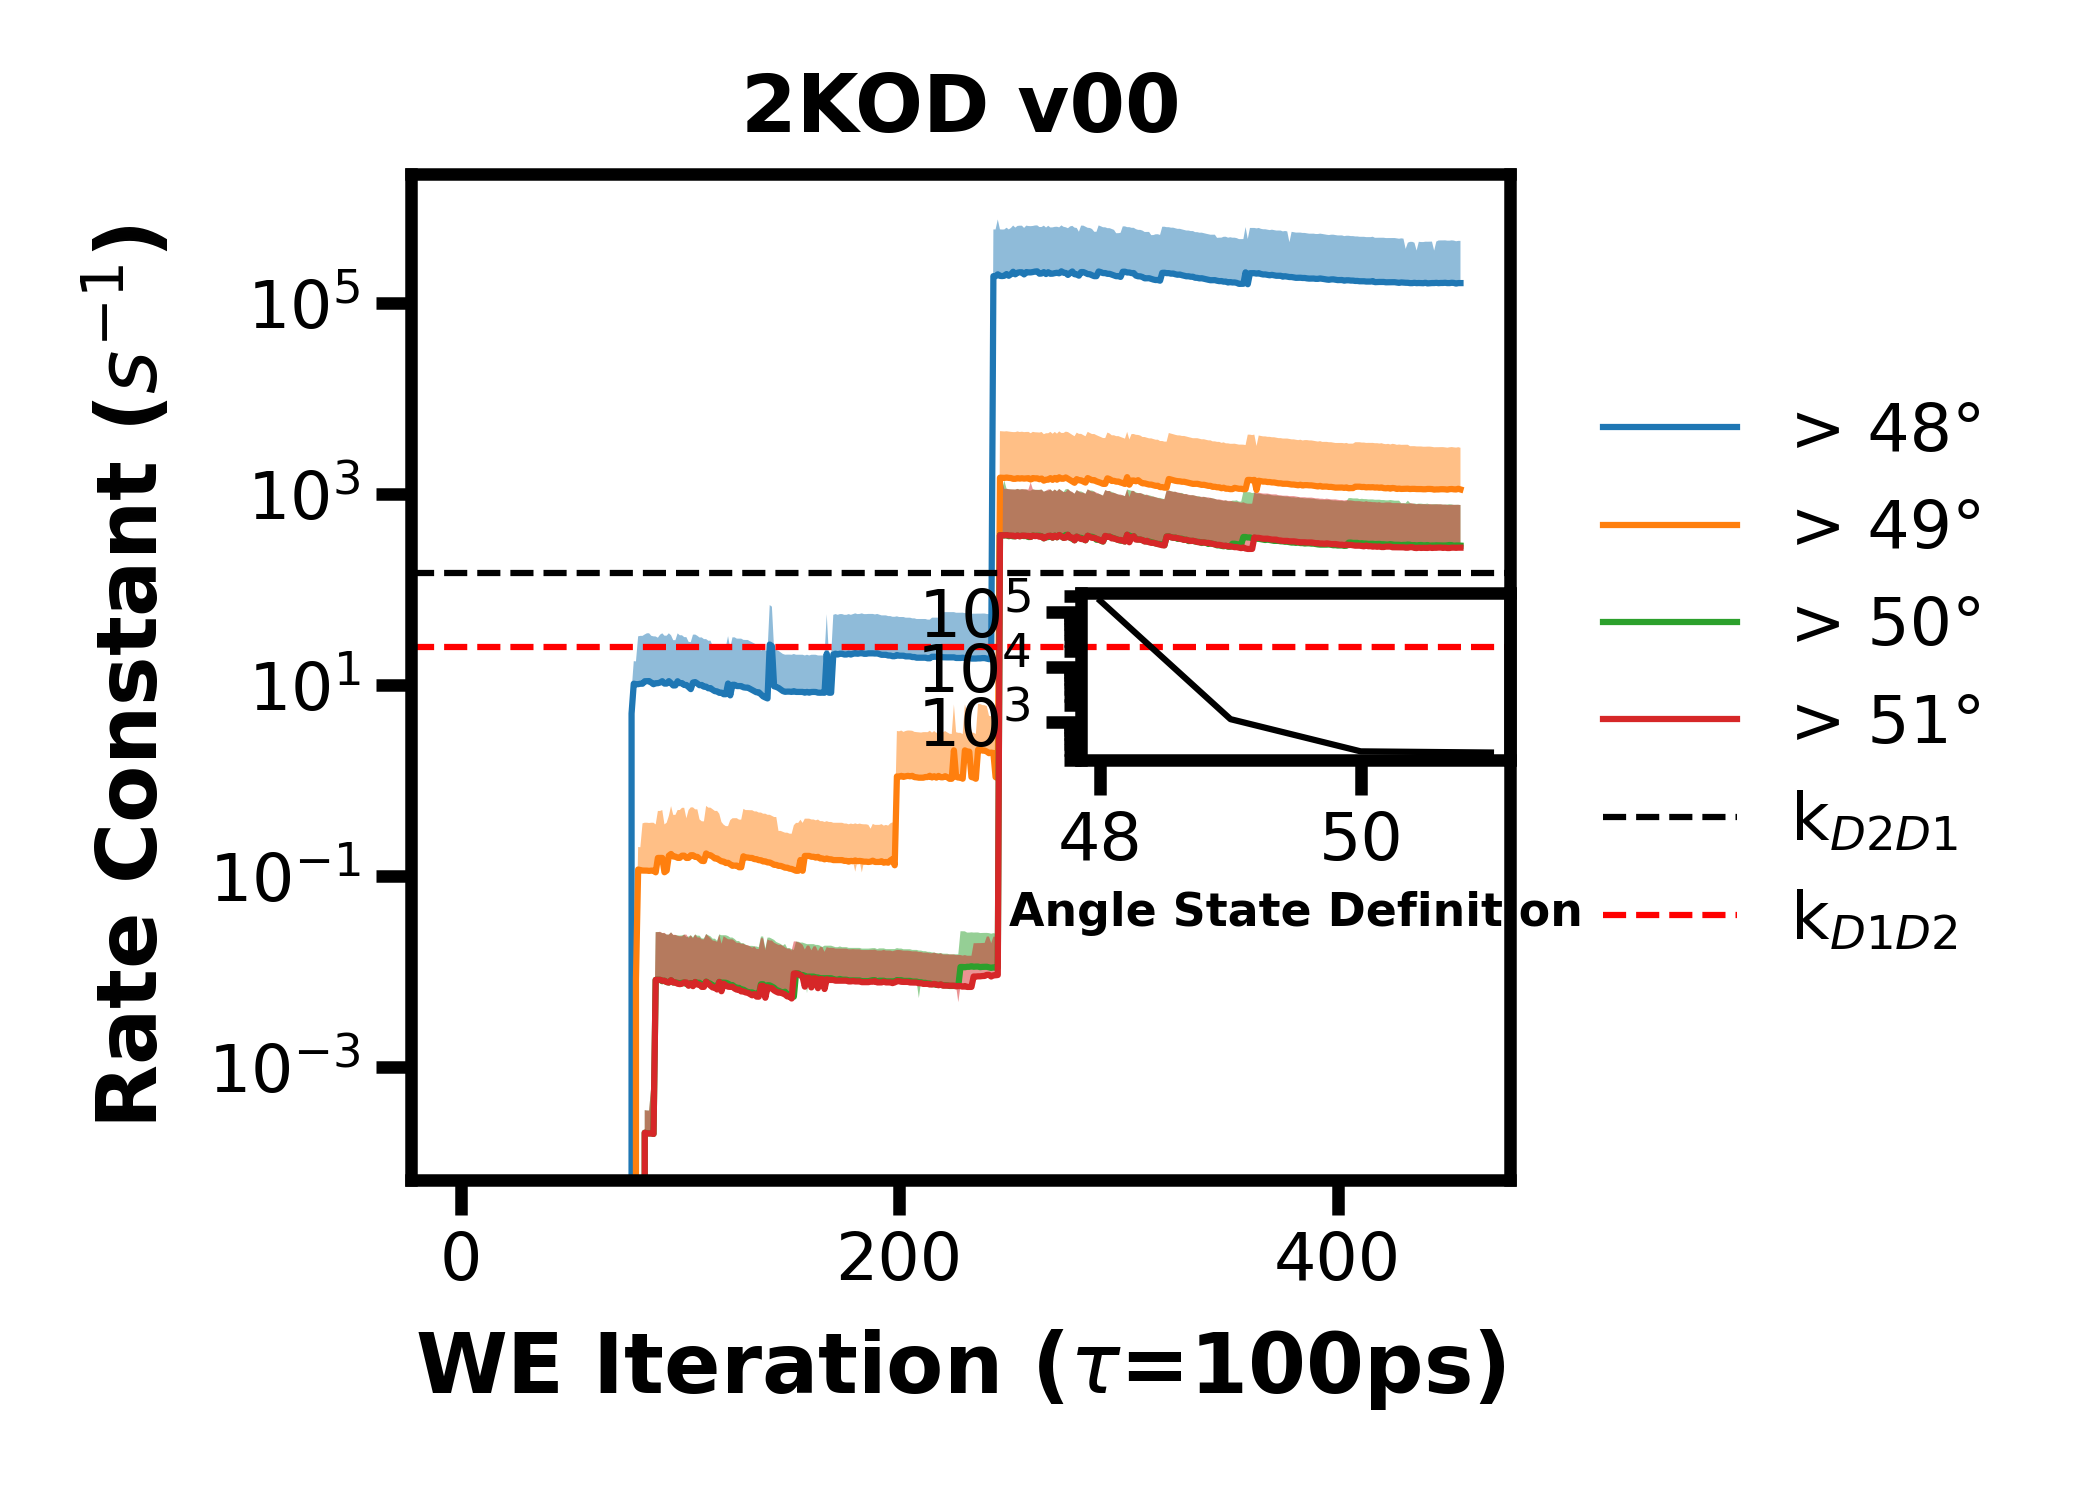
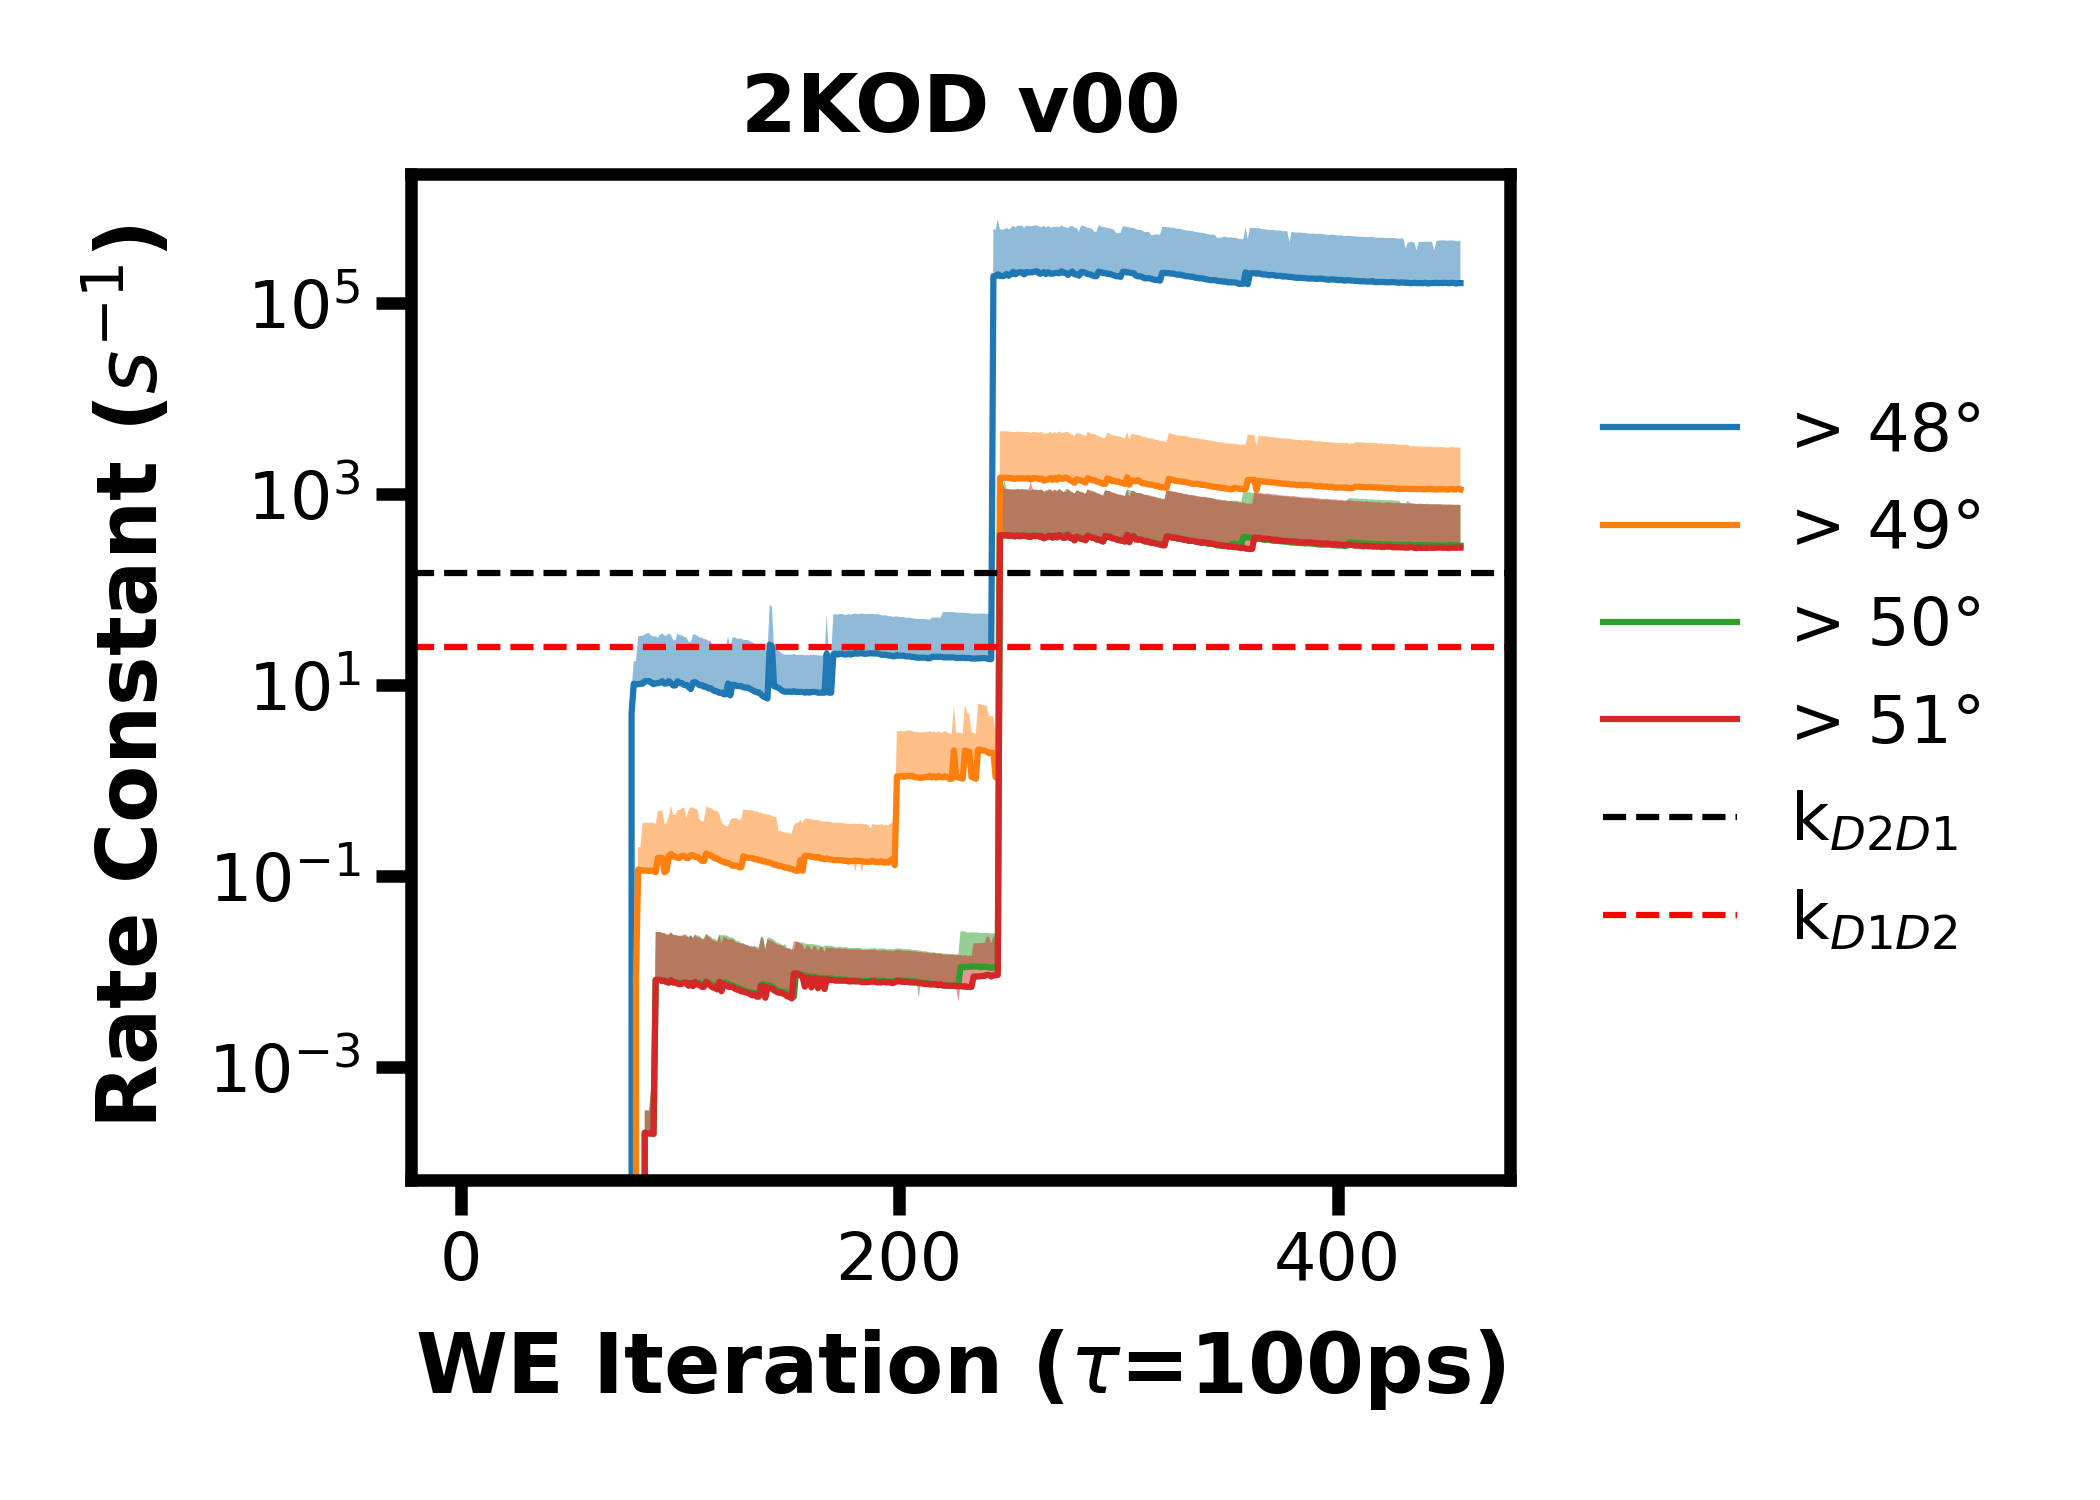
fixed the rate plotter to be more robust with input naming schemes

Changed region(s): [[0.4333, 0.368, 0.7429, 0.644]]

diff --git a/plot_direct_h5.py b/plot_direct_h5.py
@@ -49,8 +49,8 @@ plt.style.use("/Users/darian/github/wedap/wedap/styles/default.mplstyle")
 
 class Kinetics:
 
-    def __init__(self, min_state=None, max_state=None, scheme=None, 
-                 tau=10**-10, state=1, label=None, units="rates", ax=None):
+    def __init__(self, min_state=None, max_state=None, scheme=None, prefix=None,
+                 tau=10**-10, state=1, label=None, units="rates", ax=None, savefig=False):
         """ TODO
         Parameters
         ----------
@@ -66,8 +66,11 @@ class Kinetics:
         units : str
             Can be `rates` (default) or `mfpts`.
         ax : mpl axes object
+        savefig : bool
+            Wether or not to save the figure to a png.
         """
         self.scheme = scheme
+        self.prefix = prefix
         self.tau = tau
         self.state = state
         self.label = label
@@ -88,6 +91,8 @@ class Kinetics:
         else:
             self.ax = ax
             self.fig = plt.gcf()
+
+        self.savefig = savefig
 
     def extract_rate(self):
         """
@@ -195,13 +200,13 @@ class Kinetics:
         else:
             raise ValueError(f"You put {self.units} for unit, which must be `mfpts` or `rates`.") 
 
-    def plot_multi_def_rates(self, ver="v00", prefix=""):
+    # TODO: make this update scheme more automatically
+    def plot_multi_def_rates(self, ver="v00", def_subplot=True):
         ### get rates for multiple state definitions (WE c2x 4b)
         final_rates = []
+        ogscheme = self.scheme
         for angle in self.states:
-            #self.scheme = f"1a43_c2/4b_{angle}_{ver}"
-            #self.scheme = f"2kod_c2_80/4b_{angle}_{ver}"
-            self.scheme = f"2kod_oa/{prefix}{angle}_{ver}"
+            self.scheme = f"{ogscheme}/{self.prefix}{angle}_{ver}"
             self.label = f"> {angle}°"
             rates = self.plot_rate(title=f"2KOD {ver}")
             # add 2 item list: angle | final rate value
@@ -215,18 +220,20 @@ class Kinetics:
 
         # TODO: separate into different methods
         # plot the rates at various state definitions
-        ax2 = self.fig.add_subplot(324)
-        ax2.plot(self.states, final_rates, color="k")
-        ax2.set_xlabel("Angle State Definition", fontsize=11, labelpad=4)
+        if def_subplot:
+            ax2 = self.fig.add_subplot(324)
+            ax2.plot(self.states, final_rates, color="k")
+            ax2.set_xlabel("Angle State Definition", fontsize=11, labelpad=4)
         plt.yscale("log", subs=[2, 3, 4, 5, 6, 7, 8, 9])
 
         #self.ax.set_ylim(10**-9, 10**10)
 
         self.fig.tight_layout()
-        plt.savefig(f"figures/2kod_oa_{prefix}{ver}_rates.png", dpi=300, transparent=True)
-        
+        if self.savefig:
+            plt.savefig(f"figures/{ogscheme}_{self.prefix}_{ver}multi_state_rates.png", 
+                        dpi=300, transparent=True)
 
-    def plot_std_error_rate_reps(self, iterations=300, reps=3):
+    def plot_std_error_rate_reps(self, iterations=500, reps=3, def_subplot=True):
         """
         ### get rates with std errors for multiple state definitions
         Make a plot of multiple replicates and std err for each tstate def
@@ -236,14 +243,12 @@ class Kinetics:
         """
         rate_evolutions = np.zeros(shape=(iterations, self.n_states, reps))
         final_rate_scalers = np.zeros(shape=(self.n_states, reps))
+        ogscheme = self.scheme
         # for v00, v01, v02, (threshv00)
         for vi, ver in enumerate(range(0,reps)):
         #for vi, ver in enumerate(["v00", "v01", "v02", "threshv00"]):
             for ai, angle in enumerate(self.states):
-                # TODO: make this more flexible
-                #self.scheme = f"1a43_c2/4b_{angle}_v0{ver}"
-                self.scheme = f"65tdef_1a43_c2_we/4b_{angle}_v0{ver}"
-                #self.scheme = f"2kod_c2_80/4b_{angle}_v0{ver}"
+                self.scheme = f"{ogscheme}/{self.prefix}{angle}_v0{ver}"
                 self.label = f"> {angle}°"
                 # calc and fill out rate
                 rate_ab, ci_lb_ab, ci_ub_ab = self.extract_rate()
@@ -270,33 +275,36 @@ class Kinetics:
         # plt.legend(plot, [f"<{i}°" for i in states],
         #                 loc="center left", bbox_to_anchor=(1.03, 0.5), frameon=False)
         #plt.yscale("symlog", subs=[2, 3, 4, 5, 6, 7, 8, 9])
-        #plt.yscale("log", subs=[2, 3, 4, 5, 6, 7, 8, 9])
+        plt.yscale("log", subs=[2, 3, 4, 5, 6, 7, 8, 9])
 
-        # TODO: separate into different methods
-        # plot the rates at various state definitions
-        # ax2 = self.fig.add_subplot(426)
+        # state definition subplot
+        if def_subplot:
+            # plot the rates at various state definitions
+            ax2 = self.fig.add_subplot(426)
 
-        # # plot avg and std error of final rates
-        # avg_final_scaler = np.average(final_rate_scalers, axis=1)
-        # stdev_final_scaler = np.std(final_rate_scalers, axis=1)
-        # print(final_rate_scalers.shape[1])
-        # sterr_final_scaler = stdev_final_scaler / np.sqrt(final_rate_scalers.shape[1])
+            # plot avg and std error of final rates
+            avg_final_scaler = np.average(final_rate_scalers, axis=1)
+            stdev_final_scaler = np.std(final_rate_scalers, axis=1)
+            #print(final_rate_scalers.shape[1])
+            sterr_final_scaler = stdev_final_scaler / np.sqrt(final_rate_scalers.shape[1])
 
-        # ax2.plot(angles, avg_final_scaler, color="k")
-        # ax2.fill_between(self.states, 
-        #                  avg_final_scaler - sterr_final_scaler, 
-        #                  avg_final_scaler + sterr_final_scaler, 
-        #                  alpha=0.25, color="k")
+            ax2.plot(self.states, avg_final_scaler, color="k")
+            ax2.fill_between(self.states, 
+                             avg_final_scaler - sterr_final_scaler, 
+                             avg_final_scaler + sterr_final_scaler, 
+                             alpha=0.25, color="k")
 
-        # ax2.set_xlabel("Angle State Definition", fontsize=11, labelpad=4)
+            ax2.set_xlabel("Angle State Definition", fontsize=11, labelpad=4)
 
-        #plt.yscale("log", subs=[2, 3, 4, 5, 6, 7, 8, 9])
+            plt.yscale("log", subs=[2, 3, 4, 5, 6, 7, 8, 9])
 
         self.ax.set_ylabel("Rate Constant ($s^{-1}$)")
         self.ax.set_xlabel(r"WE Iteration ($\tau$=100ps)")
 
         self.fig.tight_layout()
-        #plt.savefig(f"figures/1a43_we_20-100_rates_{ver}.png", dpi=300, transparent=True)
+        if self.savefig:
+            plt.savefig(f"figures/{ogscheme}_{self.prefix}_{reps}reps_{iterations}i_avg_std.png", 
+                        dpi=300, transparent=True)
 
         return final_rate_scalers
 
@@ -342,7 +350,9 @@ class Kinetics:
         print(ddydx)
         return dydx, ddydx
 
-
+################################################
+###### a more complicated derivative plot ######
+################################################
 #fig, ax = plt.subplots(figsize=(10,7), sharey=True, ncols=1)
 #k = Kinetics(56,67,ax=ax)
 #k.scheme = f"65tdef_1a43_c2_we/4b_64_v00"
@@ -369,14 +379,20 @@ class Kinetics:
 
 #plt.savefig("figures/2kod_c2_20-80_v00.png", dpi=300, transparent=True)
 
-# single direct.h5 plot
+###################################
+###### single direct.h5 plot ######
+###################################
 # k = Kinetics(scheme="o_and_c2_angle_2kod_v00")
 # k.plot_rate()
 # k.plot_exp_vals()
 
-k = Kinetics(48, 55, scheme="2kod_oa", state=1)
-#k.plot_multi_def_rates(ver="v00", prefix="1d_")
-k.plot_multi_def_rates(ver="v01", prefix="")
+######################################
+###### common multi state plots ######
+######################################
+k = Kinetics(45, 52, scheme="2kod_oa_65c2", prefix="2d_", state=1)
+#k = Kinetics(45, 52, scheme="2kod_oa_65c2", prefix="2d_", state=1)
+#k.plot_multi_def_rates(ver="v00", def_subplot=True)
+k.plot_std_error_rate_reps(reps=3)
 
 plt.tight_layout()
 plt.show()
